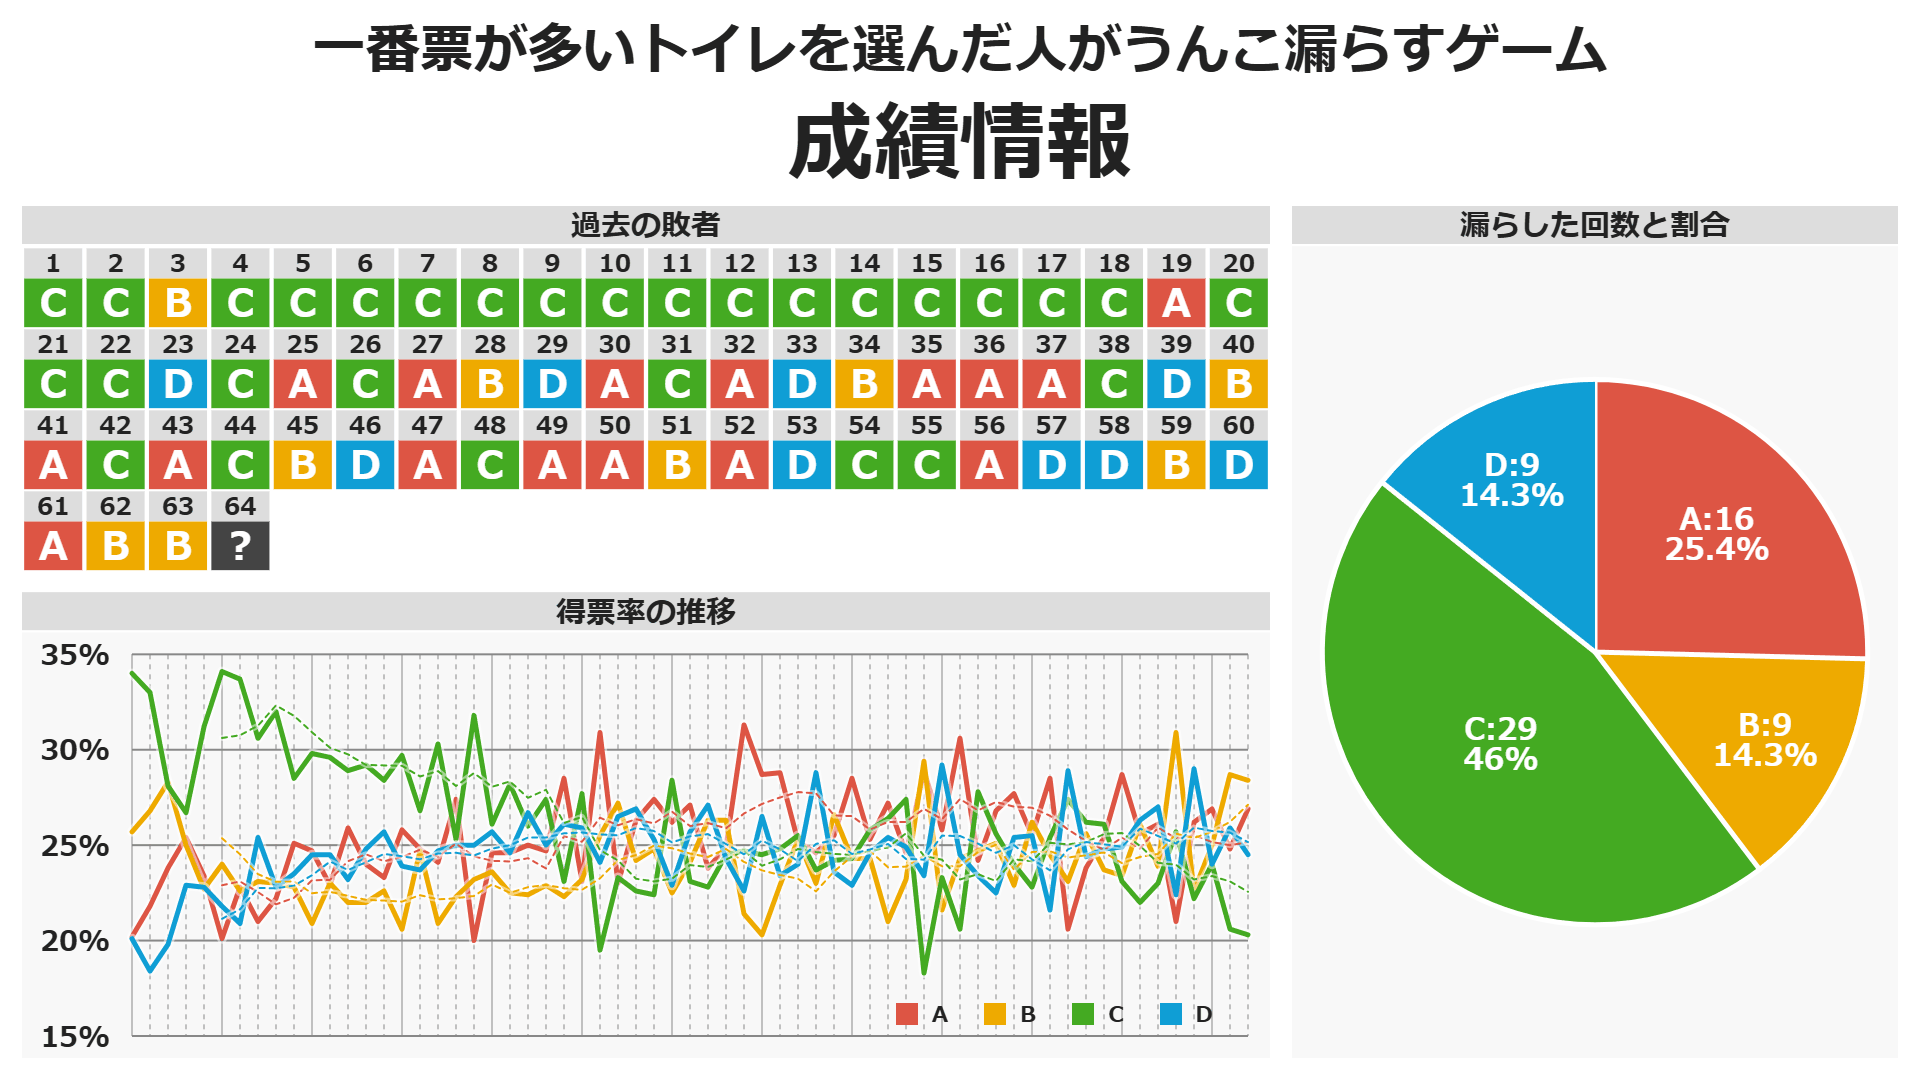
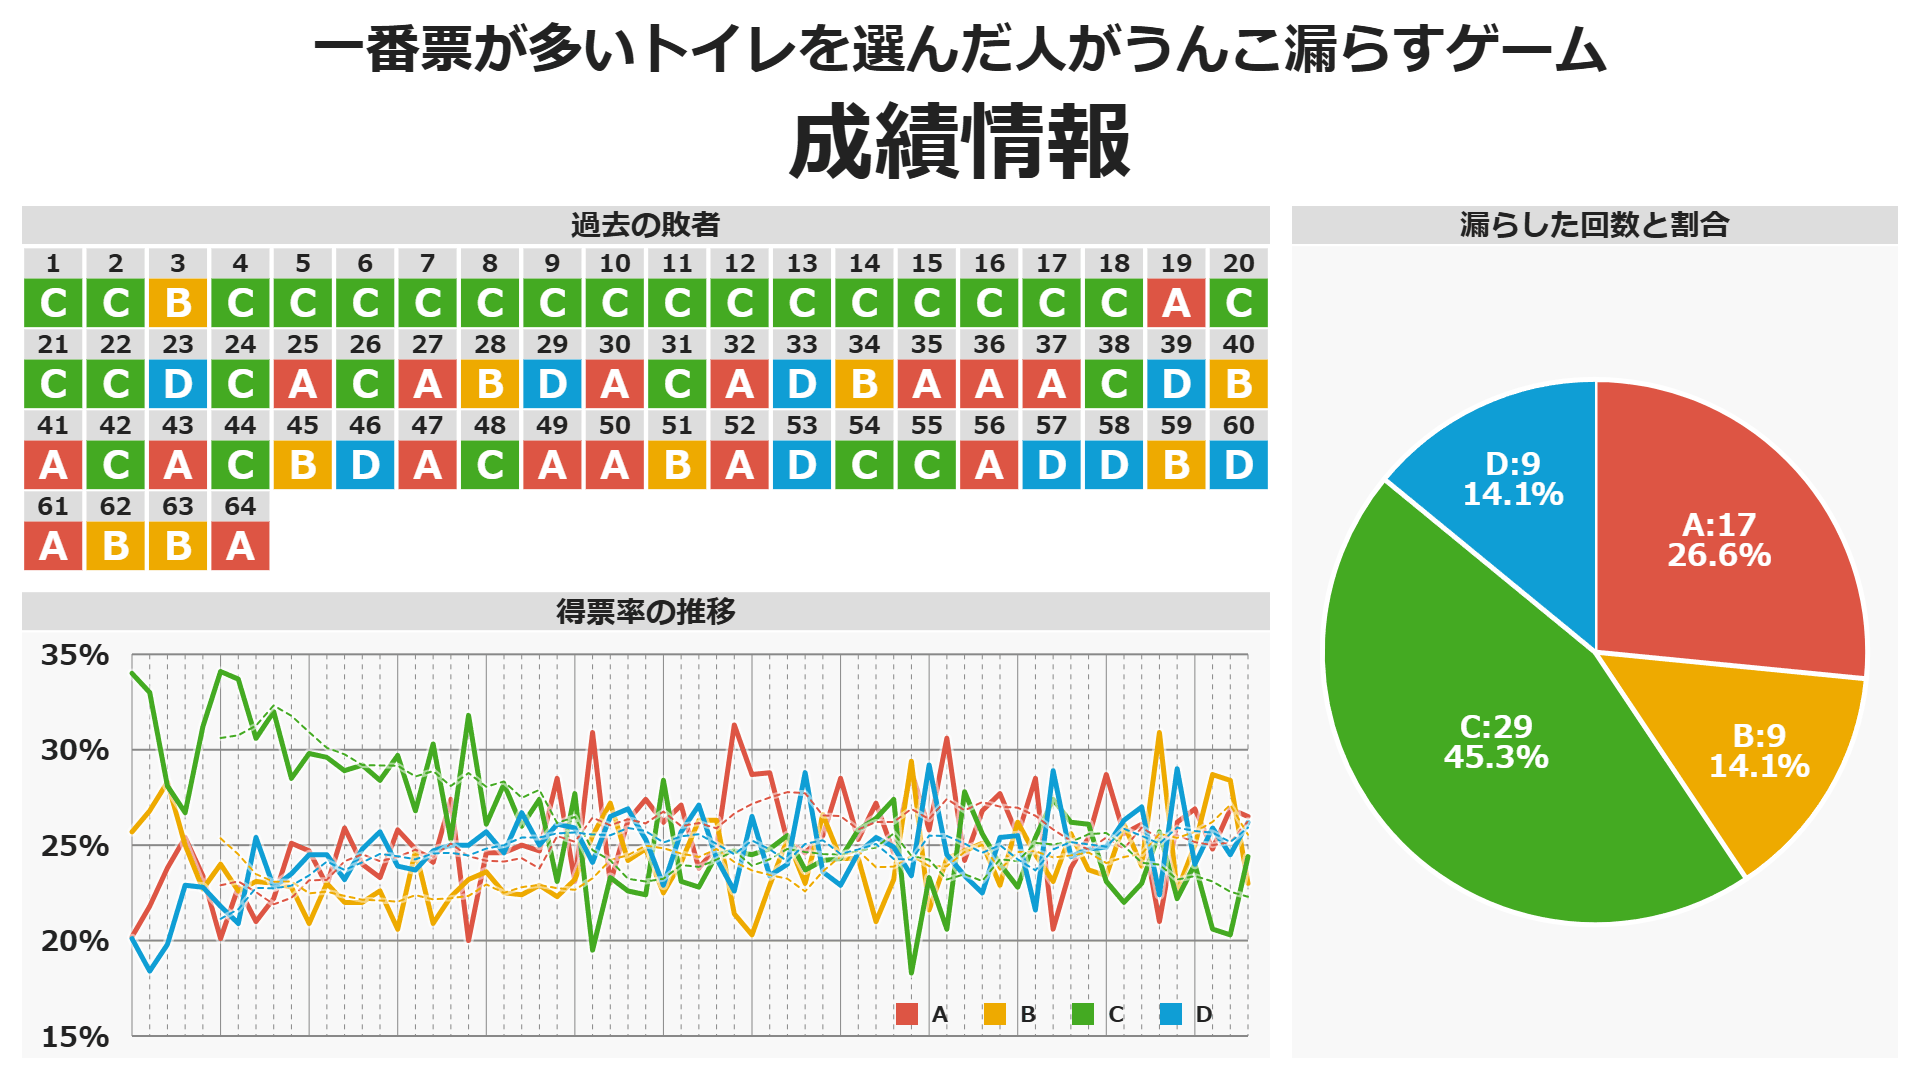
update

diff --git a/docs/work.html b/docs/work.html
@@ -33,8 +33,8 @@
       }
     </script>
 
-    <link rel="stylesheet" href="./style.css?20250209104900">
-    <script src="./toilet_game.js?20250209104900"></script>
+    <link rel="stylesheet" href="./style.css?20250209145100">
+    <script src="./toilet_game.js?20250209145100"></script>
 
     <title>4択トイレゲーム</title>
   </head>
@@ -86,7 +86,7 @@ D 🚽🚪 😨💨💨💨
           let dateStr = '';
 
           for (let i = 0; i < NUM_SELECTIONS; i++) {
-            const m = lines[i * 2 + 1].match(/^(\d+\.\d+)%$/);
+            const m = lines[i * 2 + 1].match(/^(\d+(\.\d+)?)%$/);
             percent.push(parseFloat(m[1]));
           }
 

diff --git a/docs/toilet_game.js b/docs/toilet_game.js
@@ -65,5 +65,5 @@ const DB = [
   { date: '2025-01-18', total: 416  , percent: [26.9, 25.0, 24.0, 24.0], url: 'https://x.com/shapoco/status/1880611436558426324' },
   { date: '2025-01-26', total: 282  , percent: [24.8, 28.7, 20.6, 25.9], url: 'https://x.com/shapoco/status/1883437439991332963' },
   { date: '2025-02-01', total: 469  , percent: [26.9, 28.4, 20.3, 24.5], url: 'https://x.com/shapoco/status/1885548937488326831' },
-  { date: '2025-02-08', total: 0    , percent: null, url: null },
+  { date: '2025-02-09', total: 427  , percent: [26.5, 23.0, 24.4, 26.2], url: 'https://x.com/shapoco/status/1888100432293282163' },
 ];

diff --git a/docs/index.html b/docs/index.html
@@ -36,8 +36,8 @@
     <style>
     </style>
     
-    <link rel="stylesheet" href="./style.css?20250209104900">
-    <script src="./toilet_game.js?20250209104900"></script>
+    <link rel="stylesheet" href="./style.css?20250209145100">
+    <script src="./toilet_game.js?20250209145100"></script>
 
     <title>4択トイレゲーム</title>
   </head>
